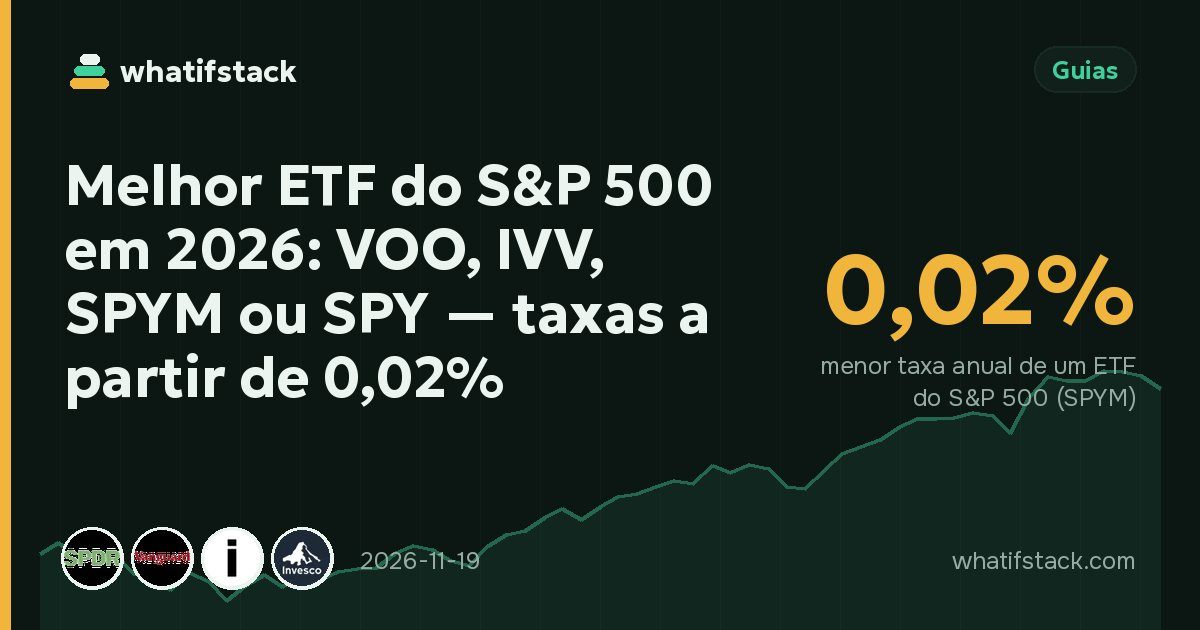
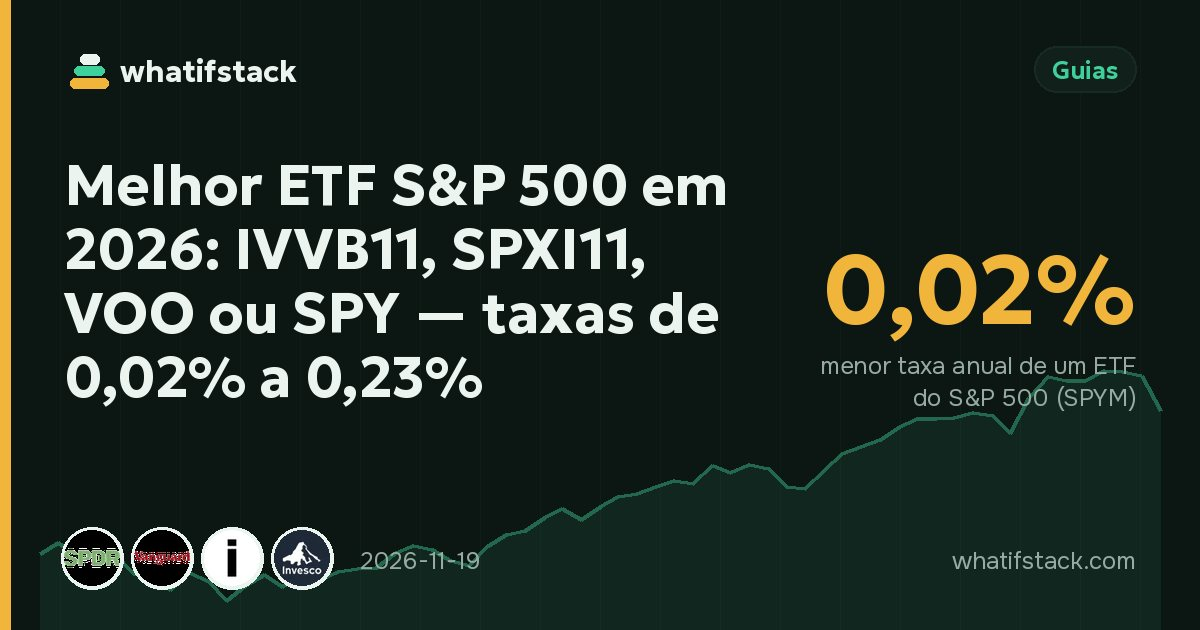
Search demand: «s p500 etf» (242 impressions, Brazil, pos ~10) — pt S&P 500 guides now target «ETF S&P 500» with a B3 section (IVVB11, SPXI11, SPXB11, BIVB39 vs VOO/IVV/SPY), sources and new covers
Claude-Session: https://claude.ai/code/session_01Nmn9VQxkqvjv7CQzUMJgNu

Changed region(s): [[0.0308, 0.3619, 0.6167, 0.6635], [0.3083, 0.2413, 0.6167, 0.3317], [0.9558, 0.6032, 0.9867, 0.6333]]

diff --git a/content/blog/pt/best-sp500-etf.md b/content/blog/pt/best-sp500-etf.md
@@ -1,6 +1,6 @@
 ---
-title: "Melhor ETF do S&P 500 em 2026: VOO, IVV, SPYM ou SPY — taxas a partir de 0,02%"
-description: SPY, VOO, IVV e SPYM seguem o mesmo S&P 500. A diferença está na taxa anual (0,02%–0,0945%) e em onde você mora. Comparação simples, com opções para o Brasil e a Europa.
+title: "Melhor ETF S&P 500 em 2026: IVVB11, SPXI11, VOO ou SPY — taxas de 0,02% a 0,23%"
+description: Qual ETF S&P 500 comprar: IVVB11 e SPXI11 na B3 (0,21%–0,23%), BDR BIVB39 ou VOO, IVV e SPY nos EUA (0,02%–0,0945%). Comparação simples para quem investe do Brasil.
 date: 2026-11-19 14:00
 category: guides
 assets: spy, voo, ivv, qqq
@@ -13,7 +13,7 @@ stat_label: menor taxa anual de um ETF do S&P 500 (SPYM)
 > - O SPYM é o mais barato, com 0,02% ao ano; VOO e IVV cobram 0,03%; SPY cobra 0,0945%.
 > - Em US$ 10.000, isso dá cerca de US$ 2, US$ 3 e US$ 9,45 por ano — pouco, mas se acumula por décadas.
 > - O SPY é o mais negociado, o que importa para traders, não para quem compra e segura.
-> - No Brasil existe o IVVB11 (B3), que replica o S&P 500 em reais; na Europa, usam-se versões UCITS (CSPX, VUAA).
+> - No Brasil, pela B3 em reais: IVVB11 (0,23%, o mais líquido), SPXI11 (0,21%) e o BDR BIVB39; na Europa, versões UCITS (CSPX, VUAA).
 
 ## Os quatro grandes ETFs americanos do S&P 500
 
@@ -32,9 +32,22 @@ Preços agora: VOO {{price:voo}}, IVV {{price:ivv}}, SPY {{price:spy}}. Preço m
 - **Você opera com frequência ou usa opções:** SPY, pelo volume e pelos spreads mais apertados.
 - **Já tem um deles:** normalmente não vale trocar. Vender pode gerar imposto, e a diferença entre VOO e SPYM é de 0,01% ao ano.
 
-## Se você está no Brasil, em Portugal ou em outro país
+## ETF S&P 500 no Brasil: IVVB11, SPXI11, SPXB11 ou BIVB39
 
-- **Brasil:** o **IVVB11** (iShares, na B3) acompanha o S&P 500 em reais, com variação do dólar embutida. Também é possível comprar VOO/IVV por corretoras internacionais.
+Dá para ter o S&P 500 sem abrir conta no exterior, comprando pela B3 em reais, pelo mesmo home broker das ações brasileiras. Em todas essas opções a cotação acompanha o S&P 500 **e** o dólar.
+
+| Ticker (B3) | O que é | Gestora | Taxa anual | Bom saber |
+|---|---|---|---|---|
+| **IVVB11** | ETF que compra o IVV americano | BlackRock (iShares) | 0,23% | O mais negociado: cerca de R$ 57 milhões por dia |
+| **SPXI11** | ETF que compra o VUAA (Vanguard, Irlanda) | Itaú Asset (It Now) | 0,21% | Desde 2026 usa o VUAA, que reinveste os dividendos |
+| **SPXB11** | ETF do S&P 500 | BTG Pactual | variável | Volume bem menor (cerca de R$ 0,4 milhão por dia) |
+| **BIVB39** | BDR do próprio IVV | BlackRock | a do IVV (0,03%) | Você paga a taxa do ETF americano, em reais |
+
+**Na prática:** quem quer simplicidade e liquidez costuma ficar com o **IVVB11**; quem olha cada centavo de taxa compara com o **SPXI11** ou o BDR **BIVB39**. Comprar **VOO, IVV ou SPYM** direto nos EUA tem a menor taxa (0,02%–0,03%), mas exige corretora internacional e envio de dinheiro ao exterior — com câmbio e spread que podem custar mais do que a diferença de taxa em valores pequenos.
+
+Ainda não existe BDR do SPY nem do VOO na B3. Impostos são diferentes entre ETF na B3, BDR e ETF no exterior — confira as regras atuais com a sua corretora ou um contador antes de escolher.
+
+## Se você está em Portugal ou em outro país
 - **Europa (Portugal incluído):** muitas corretoras não vendem ETFs domiciliados nos EUA a pequenos investidores. As versões UCITS seguem o mesmo índice: **CSPX / SXR8** (iShares, 0,07%), **VUAA / VUSA** (Vanguard, 0,07%) e **SPYL** (SPDR, cerca de 0,03%).
 
 Fundos "de acumulação" reinvestem os dividendos; os "de distribuição" pagam a você. As regras de imposto dependem do país — confira antes de comprar.
@@ -56,6 +69,10 @@ O S&P 500 já teve quedas fortes — cerca de −50% em 2008–2009 e −34% no 
 - [etf.com: VOO vs SPY vs IVV em 2026](https://www.etf.com/sections/news/voo-vs-spy-vs-ivv-which-sp-500-etf-should-you-buy-2026)
 - [NerdWallet: os principais ETFs do S&P 500, novembro de 2026](https://nerdwallet.com/article/investing/spy-etf)
 - [Optimized Portfolio: SPYM (antigo SPLG)](https://www.optimizedportfolio.com/spym/)
+- [B3 Bora Investir: comparador IVVB11 x SPXB11](https://borainvestir.b3.com.br/comparador-de-etfs/IVVB11/SPXB11/)
+- [ETFs Brasil: IVVB11 x SPXI11 (taxas e carteira)](https://www.etfsbrasil.com.br/comparador/ivvb11/spxi11)
+- [Suno: diferenças entre SPXI11 e IVVB11](https://www.suno.com.br/noticias/?p=666404)
+- [Educação Financeira Brasil: ETFs e BDRs do S&P 500](https://educacaofinanceirabrasil.com.br/artigos/melhores-etfs-sp500)
 - [justETF: CSPX vs VUAA](https://www.justetf.com/uk/asset-comparisons/etf-comparisons/IE00B5BMR087-ishares-core-sp500-acc-vs-IE00BFMXXD54-vanguard-sp500-acc)
 
 *Não é recomendação de investimento. Resultados passados não são previsão.*

diff --git a/content/blog/pt/how-to-invest-in-sp500.md b/content/blog/pt/how-to-invest-in-sp500.md
@@ -1,6 +1,6 @@
 ---
-title: Como investir no S&P 500 de qualquer lugar: fundos de índice e ETFs explicados
-description: Como investir no S&P 500 a partir do Brasil ou de outro país: o que é o índice, como funcionam ETFs como SPY e VOO, quanto custa e como foi comprar todo mês.
+title: "Como investir no S&P 500 do Brasil: ETF S&P 500 (IVVB11, VOO, SPY) explicado"
+description: Como investir no S&P 500 a partir do Brasil: o que é o índice, qual ETF S&P 500 comprar (IVVB11 na B3, VOO ou SPY nos EUA), quanto custa e quanto rendeu comprar todo mês.
 date: 2026-11-16
 category: guides
 assets: spy, qqq, gold
@@ -41,6 +41,14 @@ O caminho depende de onde você mora, mas costuma ser assim:
 5. **Compre o ETF** — muitas corretoras permitem comprar frações, então dá para começar com pouco.
 
 Alguns fundos pagam dividendos; outros (chamados "de acumulação") reinvestem automaticamente. Os de acumulação podem ser mais práticos para quem investe regularmente no longo prazo.
+
+## Qual ETF S&P 500 comprar no Brasil
+
+- **Pela B3, em reais:** **IVVB11** (BlackRock, taxa 0,23%, o mais negociado) ou **SPXI11** (Itaú, 0,21%). Também existe o BDR **BIVB39**, que acompanha o IVV americano.
+- **Direto nos EUA:** **VOO**, **IVV** (0,03%) ou **SPY** (0,0945%), por uma corretora internacional.
+- A diferença de retorno entre eles é pequena; o que mais pesa é a taxa, o câmbio e os impostos de cada caminho.
+
+Comparação completa, com tabela: [melhor ETF S&P 500 em 2026]({lang}/blog/best-sp500-etf/).
 
 ## Quanto custa
 
